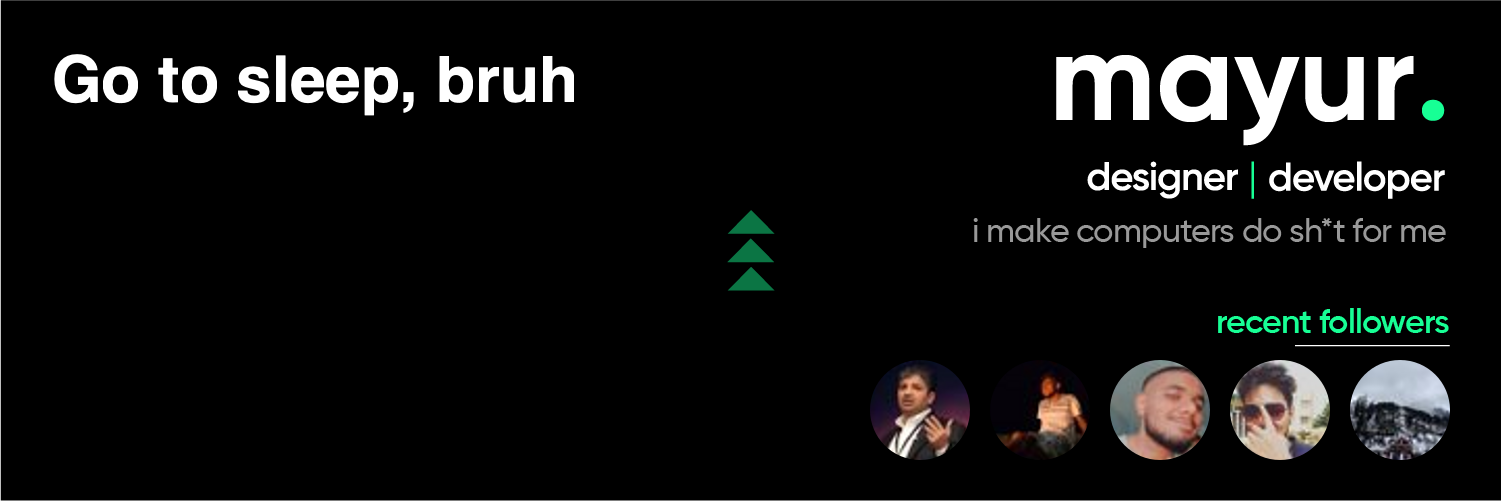
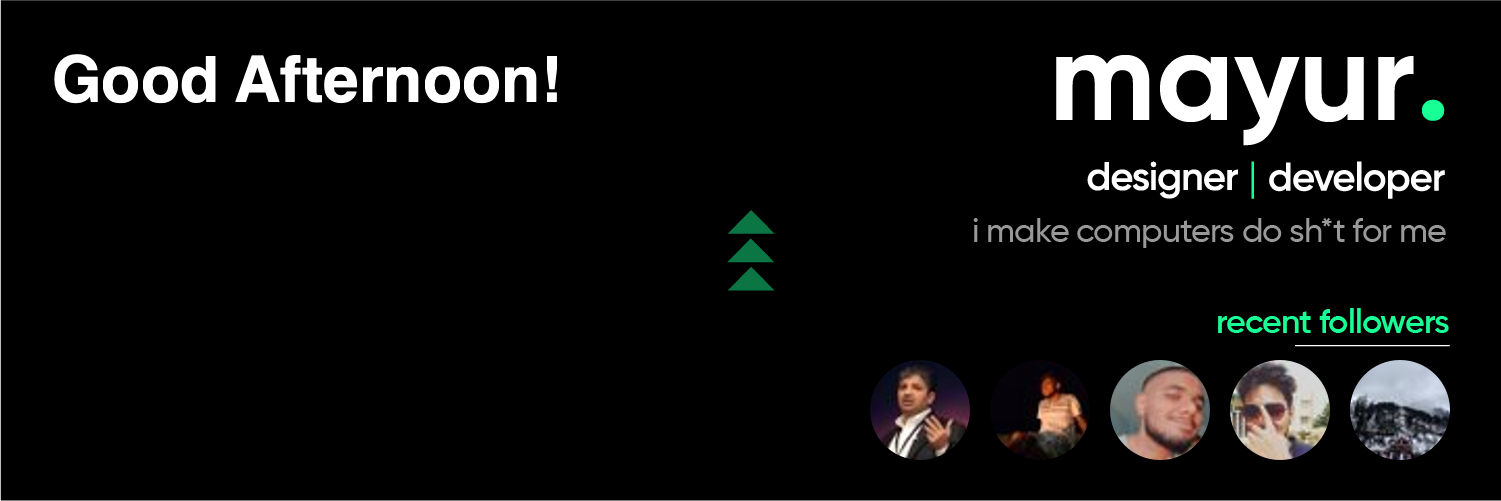
UI for API

Changed region(s): [[0.0919, 0.0898, 0.3984, 0.2395]]

diff --git a/index.js b/index.js
@@ -96,7 +96,7 @@ async function draw(images) {
   try {
     const d = new Date();
     let hour = d.getHours();
-    console.log(parseInt(hour))
+    console.log(parseInt(hour));
     const welcomeMsgs = [
       "Good Morning!",
       "Good Afternoon!",
@@ -135,7 +135,7 @@ async function upload(files) {
         banner: base64,
       })
       .then(() => {
-        console.log("Upload to Twitter done");
+        console.log("✅ Uploaded to Twitter");
         delete_files(files);
       });
   } catch (error) {
@@ -148,9 +148,9 @@ async function delete_files(files) {
     files.forEach((file) => {
       if (file.input.includes(".png")) {
         fs.unlinkSync(file.input);
-        console.log("File removed");
       }
     });
+    console.log("✅ Flushed file buffer");
   } catch (err) {
     console.error(err);
   }
@@ -159,7 +159,7 @@ async function delete_files(files) {
 fetchFollowers(5);
 setInterval(() => {
   fetchFollowers(5);
-}, 60000);
+}, 120000);
 
 // http
 //   .createServer(function (req, res) {

diff --git a/style.css b/style.css
@@ -1,0 +1,50 @@
+.center {
+    position: absolute;
+    width: 300px;
+    height: 50px;
+    top: 45%;
+    left: 45%;
+    margin-right: 0px;
+    margin-top: 80px; 
+    font-weight: 500;
+    letter-spacing: -1px;
+    font-family: Inter, sans-serif;
+    color: #bbb
+}
+
+.center-1 {
+    position: absolute;
+    width: 300px;
+    height: 50px;
+    top: 45%;
+    left: 47.5%;
+    margin-left: 0px;
+    margin-bottom: 0px; 
+    font-size: 64px;
+    font-weight: 500;
+    letter-spacing: -1px;
+    font-family: Inter, sans-serif;
+    color: #ddd
+}
+
+
+.center a:link {
+    color:aquamarine;
+    letter-spacing: -1px;
+    font-family: Inter, sans-serif;
+    text-decoration: none;
+}
+
+.center a:visited {
+    color:aquamarine;
+    letter-spacing: -1px;
+    font-family: Inter, sans-serif;
+    text-decoration: none;
+}
+
+.center a:hover {
+    color: cornsilk;
+    letter-spacing: -1px;
+    font-family: Inter, sans-serif;
+    text-decoration: none;
+}

diff --git a/index.html b/index.html
@@ -1,0 +1,16 @@
+<!DOCTYPE html>
+<html lang="en">
+<head>
+    <meta charset="UTF-8">
+    <meta http-equiv="X-UA-Compatible" content="IE=edge">
+    <meta name="viewport" content="width=device-width, initial-scale=1.0">
+    <title>Dynamic Header</title>
+     <link rel="stylesheet" href="style.css">
+</head>
+<body style="background-color:#121212;">
+    <div class='fullscreenDiv'>
+        <div class="center-1">active.</div>
+    <div class="center">  <a href="https://github.com/Mayur57/dynamic-header">Dynamic Header</a>  by <a href="https://twitter.com/mayurbhoii">@mayurbhoii</a></div>
+</div>
+</body>
+</html>
